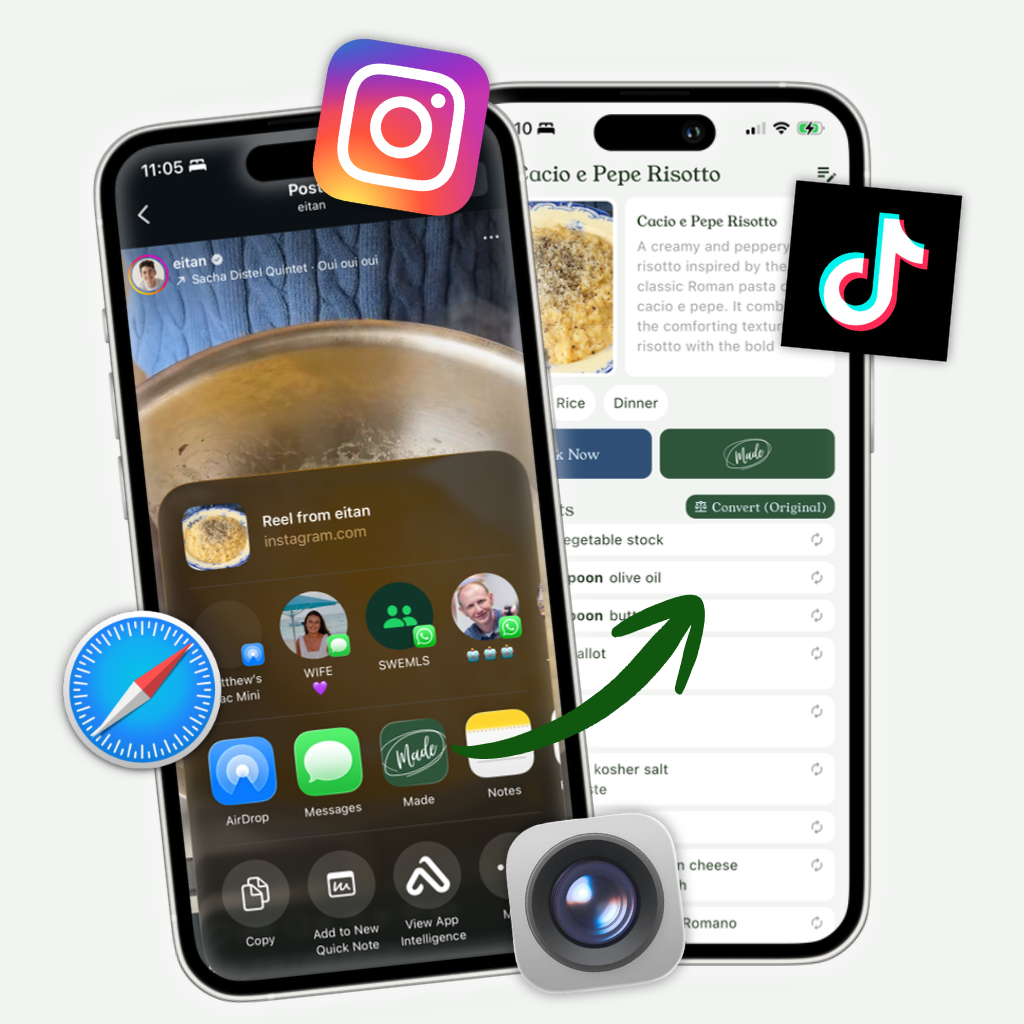
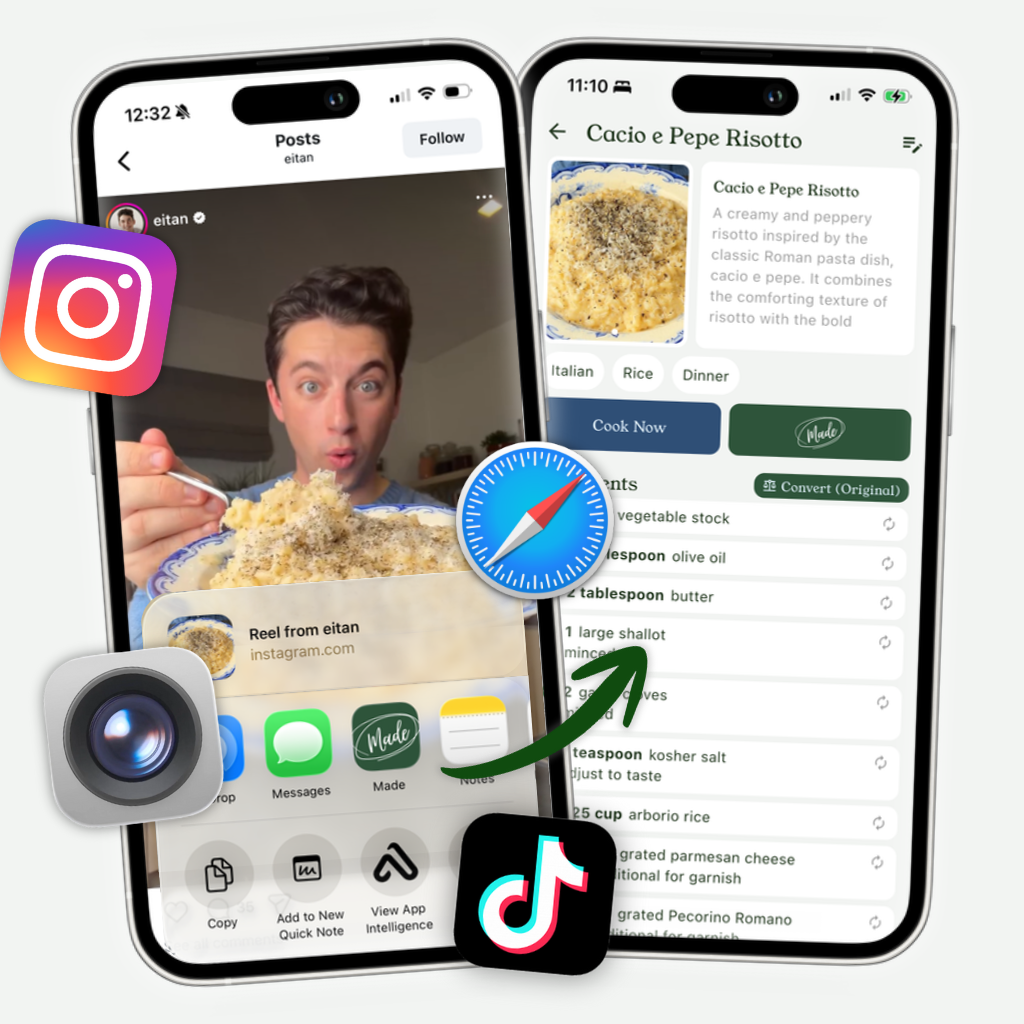
give new users eitans recipe pack

diff --git a/functions/index.js b/functions/index.js
@@ -3,6 +3,8 @@ const { logger } = require("firebase-functions");
 const { GoogleGenAI, Type } = require("@google/genai");
 const axios = require("axios");
 const cheerio = require("cheerio");
+const admin = require("firebase-admin");
+admin.initializeApp();
 
 const PROJECT = process.env.GCLOUD_PROJECT || process.env.GCP_PROJECT;
 const LOCATION = "europe-west2"; // keep consistent with your app + data residency
@@ -700,3 +702,128 @@ exports.substituteIngredient = onCall(
         return JSON.parse(resp.text);
     }
 );
+
+
+exports.grantEitanStarterPackToUser = onCall(async (request) => {
+    if (!request.auth) {
+        throw new HttpsError("unauthenticated", "Please sign in.");
+    }
+
+    const PACK_ID = "eitan_starter";
+    const db = admin.firestore();
+
+    const uid = (request.data && request.data.uid) ? String(request.data.uid) : request.auth.uid;
+
+    // Optional safety: only allow granting to self unless admin
+    const isAdmin = !!request.auth.token?.admin;
+    if (!isAdmin && uid !== request.auth.uid) {
+        throw new HttpsError("permission-denied", "You can only grant packs to your own account.");
+    }
+
+    const packRef = db.collection("recipe_packs").doc(PACK_ID);
+    const packSnap = await packRef.get();
+    if (!packSnap.exists) {
+        throw new HttpsError("not-found", `Recipe pack '${PACK_ID}' not found.`);
+    }
+
+    const packData = packSnap.data() || {};
+
+    const userRef = db.collection("users").doc(uid);
+    const userSnap = await userRef.get();
+
+    // Ensure user doc exists
+    if (!userSnap.exists) {
+        await userRef.set(
+            {
+                createdAt: admin.firestore.FieldValue.serverTimestamp(),
+            },
+            { merge: true }
+        );
+    }
+
+    const cookbooksCol = userRef.collection("cookbooks");
+    const recipesCol = userRef.collection("recipes");
+
+    // Check if user already has this pack (by cookbook field "id" == PACK_ID)
+    const existingCookbookSnap = await cookbooksCol.where("id", "==", PACK_ID).limit(1).get();
+    if (!existingCookbookSnap.empty) {
+        const existingCookbookId = existingCookbookSnap.docs[0].id;
+        return {
+            ok: true,
+            alreadyHasPack: true,
+            cookbookDocId: existingCookbookId,
+            recipesCopied: 0,
+            recipesSkipped: 0,
+        };
+    }
+
+    const now = admin.firestore.FieldValue.serverTimestamp();
+
+    // Create cookbook doc (auto id) using pack fields + timestamps
+    const newCookbookRef = cookbooksCol.doc();
+
+    await newCookbookRef.set({
+        id: PACK_ID,
+        author: packData.author ?? "",
+        cookCount: packData.cookCount ?? 0,
+        coverImageUrl: packData.coverImageUrl ?? "",
+        lastCookedAt: packData.lastCookedAt ?? null,
+        title: packData.title ?? "Starter Pack",
+        createdAt: now,
+        updatedAt: now,
+        description: packData.description ?? "",
+    });
+
+    const cookbookDocId = newCookbookRef.id;
+
+    // Copy recipes from pack -> user, skipping any that already exist
+    const packRecipesSnap = await packRef.collection("recipes").get();
+
+    let copied = 0;
+    let skipped = 0;
+
+    let batch = db.batch();
+    let ops = 0;
+
+    for (const recipeDoc of packRecipesSnap.docs) {
+        const destRecipeRef = recipesCol.doc(recipeDoc.id);
+
+        const exists = await destRecipeRef.get();
+        if (exists.exists) {
+            skipped += 1;
+            continue;
+        }
+
+        batch.set(destRecipeRef, {
+            ...recipeDoc.data(),
+            cookbookId: cookbookDocId,
+            createdAt: now,
+            updatedAt: now,
+        });
+
+        copied += 1;
+        ops += 1;
+
+        // keep under 500 ops
+        if (ops >= 450) {
+            await batch.commit();
+            batch = db.batch();
+            ops = 0;
+        }
+    }
+
+    if (ops > 0) {
+        await batch.commit();
+    }
+
+    // touch cookbook updatedAt after recipe copy
+    await newCookbookRef.set({ updatedAt: now }, { merge: true });
+
+    return {
+        ok: true,
+        alreadyHasPack: false,
+        cookbookDocId,
+        recipesCopied: copied,
+        recipesSkipped: skipped,
+    };
+});

diff --git a/lib/onboarding/onboarding_page.dart b/lib/onboarding/onboarding_page.dart
@@ -1,3 +1,4 @@
+import 'package:cloud_functions/cloud_functions.dart';
 import 'package:firebase_auth/firebase_auth.dart';
 import 'package:flutter/cupertino.dart';
 import 'package:flutter/material.dart';
@@ -20,11 +21,22 @@ class _OnboardingPageState extends State<OnboardingPage> {
 
   Future<User> signInAnonymouslyIfNeeded() async {
     final auth = FirebaseAuth.instance;
+
+    User user;
     if (auth.currentUser != null) {
-      return auth.currentUser!;
+      user = auth.currentUser!;
+    } else {
+      final credential = await auth.signInAnonymously();
+      user = credential.user!;
     }
-    final credential = await auth.signInAnonymously();
-    return credential.user!;
+
+    // Call the Cloud Function after auth
+    final callable = FirebaseFunctions.instance.httpsCallable(
+      'grantEitanStarterPackToUser',
+    );
+    await callable.call(<String, dynamic>{'uid': user.uid});
+
+    return user;
   }
 
   void _next() {
@@ -87,14 +99,14 @@ class _OnboardingPageState extends State<OnboardingPage> {
                   _OutcomePage(
                     headline: "Never lose a recipe again",
                     subhead:
-                        "Save recipes from anywhere - books, links, photos and social.",
+                        "Save recipes from anywhere: cookbooks, websites, photos and social media.",
                     index: 1,
                     // Swap this placeholder for an image later
                   ),
                   _OutcomePage(
                     headline: "Always know what to cook",
                     subhead:
-                        "Made tells you what to cook right now — or plans the week for you.",
+                        "Made tells you what to cook right now, or plans the week for you.",
                     index: 2,
                   ),
                   _OutcomePage(
@@ -226,7 +238,7 @@ class _PickOutcomePage extends StatelessWidget {
           ),
           const SizedBox(height: 12),
           _ChoiceCard(
-            title: "To enjoy cooking more",
+            title: "Cooking without friction",
             subtitle:
                 "Step-by-step cooking with smart timers, swaps and instant conversions.",
             icon: Icons.timer,

diff --git a/lib/components/cookbook_card.dart b/lib/components/cookbook_card.dart
@@ -1,3 +1,4 @@
+import 'package:cached_network_image/cached_network_image.dart';
 import 'package:flutter/material.dart';
 import 'package:recipe_app/pages/cookbook_page.dart';
 import 'package:recipe_app/styles/colours.dart';
@@ -44,7 +45,22 @@ class CookbookCard extends StatelessWidget {
                 child: AspectRatio(
                   aspectRatio: 1,
                   child: imageUrl != null
-                      ? Image.network(imageUrl!, fit: BoxFit.cover)
+                      ? CachedNetworkImage(
+                          imageUrl: imageUrl!,
+                          fit: BoxFit.cover,
+                          fadeInDuration: const Duration(milliseconds: 150),
+                          placeholder: (_, __) =>
+                              Container(color: AppColors.accentColour1),
+                          errorWidget: (_, __, ___) => Container(
+                            color: AppColors.accentColour1,
+                            child: Center(
+                              child: Text(
+                                "No Image",
+                                style: TextStyles.bodyTextSecondary,
+                              ),
+                            ),
+                          ),
+                        )
                       : Container(
                           color: AppColors.accentColour1,
                           child: Center(
@@ -63,7 +79,7 @@ class CookbookCard extends StatelessWidget {
               padding: const EdgeInsets.fromLTRB(8.0, 8, 8, 0),
               child: Text(
                 title,
-                maxLines: 2,
+                maxLines: 1,
                 overflow: TextOverflow.ellipsis,
                 style: TextStyles.smallHeading,
               ),
@@ -73,7 +89,7 @@ class CookbookCard extends StatelessWidget {
                 padding: const EdgeInsets.fromLTRB(8.0, 0, 8, 8),
                 child: Text(
                   author ?? "-",
-                  maxLines: 2,
+                  maxLines: 1,
                   overflow: TextOverflow.ellipsis,
                   style: TextStyles.bodyTextPrimary,
                 ),

diff --git a/lib/components/recipe_card.dart b/lib/components/recipe_card.dart
@@ -1,3 +1,4 @@
+import 'package:cached_network_image/cached_network_image.dart';
 import 'package:flutter/material.dart';
 import 'package:recipe_app/pages/recipe_page.dart';
 import 'package:recipe_app/styles/colours.dart';
@@ -44,7 +45,22 @@ class RecipeCard extends StatelessWidget {
                 child: AspectRatio(
                   aspectRatio: 1,
                   child: imageUrl != null
-                      ? Image.network(imageUrl!, fit: BoxFit.cover)
+                      ? CachedNetworkImage(
+                          imageUrl: imageUrl!,
+                          fit: BoxFit.cover,
+                          fadeInDuration: const Duration(milliseconds: 150),
+                          placeholder: (_, __) =>
+                              Container(color: AppColors.accentColour1),
+                          errorWidget: (_, __, ___) => Container(
+                            color: AppColors.accentColour1,
+                            child: Center(
+                              child: Text(
+                                "No Image",
+                                style: TextStyles.bodyTextSecondary,
+                              ),
+                            ),
+                          ),
+                        )
                       : Container(
                           color: AppColors.accentColour1,
                           child: Center(

diff --git a/lib/pages/recipe_page.dart b/lib/pages/recipe_page.dart
@@ -3,6 +3,7 @@ import 'dart:async';
 import 'package:cloud_functions/cloud_functions.dart';
 import 'package:flutter/material.dart';
 import 'package:provider/provider.dart';
+import 'package:recipe_app/classes/cookbook.dart';
 import 'package:recipe_app/classes/ingredient.dart';
 import 'package:recipe_app/classes/recipe.dart';
 import 'package:recipe_app/classes/unit_value.dart';
@@ -181,7 +182,10 @@ class _RecipePageState extends State<RecipePage> {
 
         final cookbook = recipe.cookbookId == null
             ? null
-            : notifier.cookbooks.singleWhere((c) => c.id == recipe.cookbookId);
+            : notifier.cookbooks
+                  .where((c) => c.id == recipe.cookbookId)
+                  .cast<Cookbook?>()
+                  .firstOrNull;
 
         return Scaffold(
           backgroundColor: AppColors.backgroundColour,

diff --git a/macos/Flutter/GeneratedPluginRegistrant.swift b/macos/Flutter/GeneratedPluginRegistrant.swift
@@ -19,6 +19,7 @@ import package_info_plus
 import path_provider_foundation
 import purchases_flutter
 import shared_preferences_foundation
+import sqflite_darwin
 import url_launcher_macos
 import wakelock_plus
 
@@ -37,6 +38,7 @@ func RegisterGeneratedPlugins(registry: FlutterPluginRegistry) {
   PathProviderPlugin.register(with: registry.registrar(forPlugin: "PathProviderPlugin"))
   PurchasesFlutterPlugin.register(with: registry.registrar(forPlugin: "PurchasesFlutterPlugin"))
   SharedPreferencesPlugin.register(with: registry.registrar(forPlugin: "SharedPreferencesPlugin"))
+  SqflitePlugin.register(with: registry.registrar(forPlugin: "SqflitePlugin"))
   UrlLauncherPlugin.register(with: registry.registrar(forPlugin: "UrlLauncherPlugin"))
   WakelockPlusMacosPlugin.register(with: registry.registrar(forPlugin: "WakelockPlusMacosPlugin"))
 }

diff --git a/lib/pages/cookbook_page.dart b/lib/pages/cookbook_page.dart
@@ -122,7 +122,7 @@ class _CookbookPageState extends State<CookbookPage> {
                                           child: Text(
                                             cookbook.description ?? "",
                                             style: TextStyles.inputText,
-                                            maxLines: 6,
+                                            maxLines: 100,
                                             overflow: TextOverflow.ellipsis,
                                           ),
                                         ),
